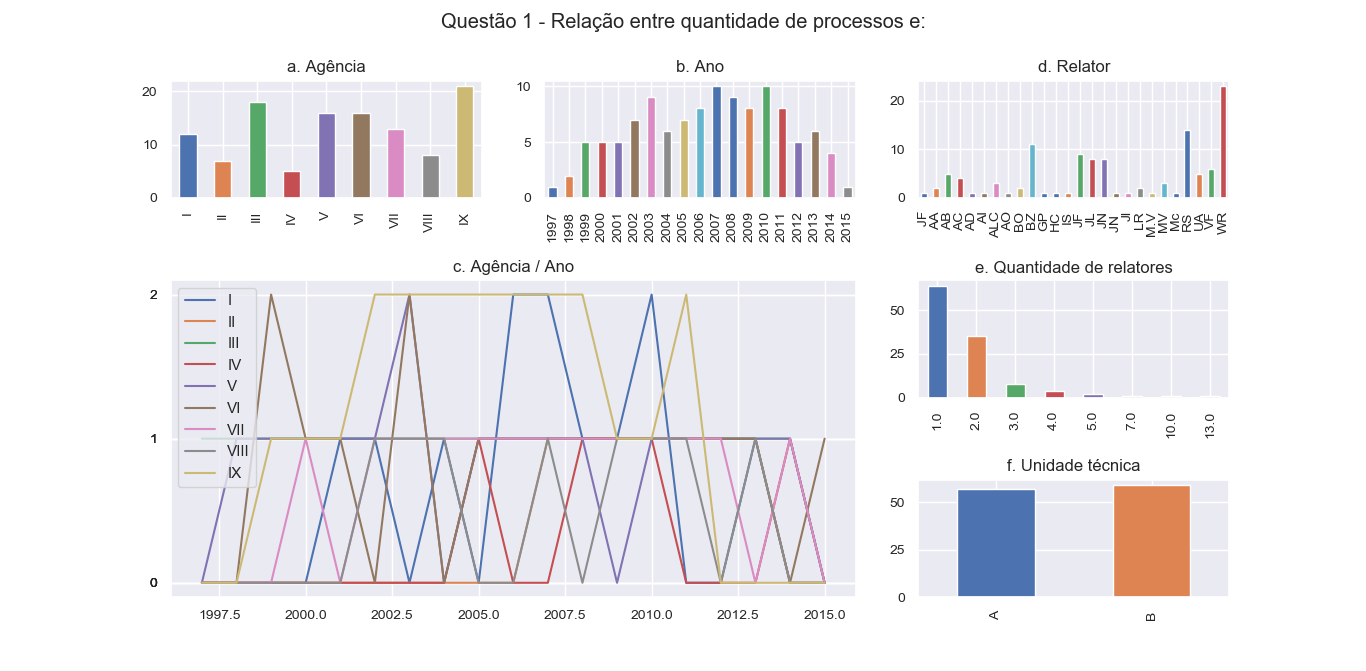
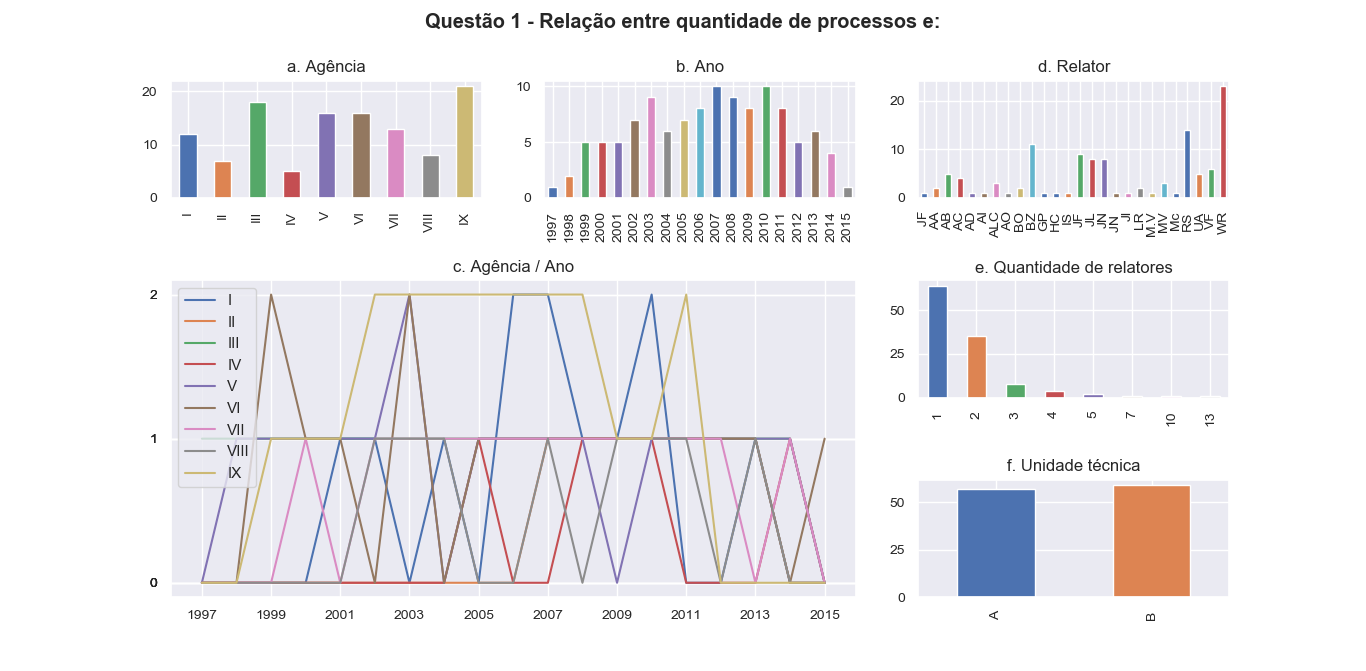
Atualizacoes 3

diff --git a/regulacaoemnumeros/Questao5.py b/regulacaoemnumeros/Questao5.py
@@ -9,8 +9,9 @@ df = df.dropna() # Descartar entradas com dados NaN
 df['AgenciaInt'] = df['Agencia'].apply(lambda x: roman.fromRoman(x)) # Transformar numerais romanos em inteiros
 
 sns.set()
-fig, axes = plt.subplots(nrows=3, ncols=2, figsize=(10,10))
-plt.subplots_adjust(hspace=0.7)
+grid = (2,4)
+fig, axes = plt.subplots(nrows=2, ncols=4, figsize=(10,10))
+plt.subplots_adjust(hspace=0.4)
 fig.suptitle('Questão 5 - Relação entre quantidade de deliberações e:', weight='bold')
 
 
@@ -22,7 +23,8 @@ result_5a = df.groupby('AgenciaInt')['deliberacoes_quantidade'].sum()
 result_5a = pd.Series(result_5a.index.values, index=result_5a) # Inverter indice com valores
 result_5a = result_5a.apply(roman.toRoman) # Aplicar funcao conversora
 result_5a = pd.Series(result_5a.index.values, index=result_5a) # Reinverter para manter numerais como indice
-result_5a.plot.bar(ax=axes[0,0], title='a. Agência', fontsize=10)
+ax_5a = plt.subplot2grid(grid, (0,0), colspan=2, rowspan=1)
+result_5a.plot.bar(ax=ax_5a, title='a. Agência', fontsize=10)
 
 
 # ===============================================================================================================
@@ -34,7 +36,8 @@ result_5b = pd.Series(result_5b.index.values, index=result_5b) # Inverter indice
 result_5b = result_5b.apply(int) # Aplicar funcao conversora
 result_5b = pd.Series(result_5b.index.values, index=result_5b) # Reinverter para manter numerais como indice
 title_5b = 'b. Ano (Total: {})'.format(result_5b.sum())
-result_5b.plot.bar(ax=axes[0,1], title=title_5b, fontsize=10)
+ax_5b = plt.subplot2grid(grid, (0,2), colspan=2, rowspan=1)
+result_5b.plot.bar(ax=ax_5b, title=title_5b, fontsize=10)
 
 
 # ===============================================================================================================
@@ -43,8 +46,8 @@ result_5b.plot.bar(ax=axes[0,1], title=title_5b, fontsize=10)
 
 result_5c = df.groupby('Relator')['deliberacoes_quantidade'].sum()
 result_5c.index.name = ''
-large_left_ax = plt.subplot2grid((3,2), (1,0), colspan=1, rowspan=2)
-result_5c.plot.bar(ax=large_left_ax, title='c. Relator', fontsize=10)
+ax_5c = plt.subplot2grid(grid, (1,0), colspan=2, rowspan=1)
+result_5c.plot.bar(ax=ax_5c, title='c. Relator', fontsize=10)
 
 
 # ===============================================================================================================
@@ -53,7 +56,8 @@ result_5c.plot.bar(ax=large_left_ax, title='c. Relator', fontsize=10)
 
 result_5d = df.groupby('Unidade_Tecnica_Responsavel')['deliberacoes_quantidade'].sum()
 result_5d.index.name = ''
-result_5d.plot.bar(ax=axes[1,1], title='d. Unidade técnica', fontsize=10)
+ax_5d = plt.subplot2grid(grid, (1,2), colspan=1, rowspan=1)
+result_5d.plot.bar(ax=ax_5d, title='d. Unidade técnica', fontsize=10)
 
 
 # ===============================================================================================================
@@ -62,7 +66,8 @@ result_5d.plot.bar(ax=axes[1,1], title='d. Unidade técnica', fontsize=10)
 
 result_5e = df.groupby('Unidade_Tecnica_Por_Agir')['deliberacoes_quantidade'].sum()
 result_5e.index.name = ''
-result_5e.plot.bar(ax=axes[2,1], title='e. Unidade técnica agir', fontsize=10)
+ax_5e = plt.subplot2grid(grid, (1,3), colspan=1, rowspan=1)
+result_5e.plot.bar(ax=ax_5e, title='e. Unidade técnica agir', fontsize=10)
 
 
 plt.show()

diff --git a/regulacaoemnumeros/Questao1.py b/regulacaoemnumeros/Questao1.py
@@ -86,7 +86,6 @@ for each in locs:
     yint.append(int(each))
 plt.yticks(yint)
 
-xint = [x for x in range(1997, 2016, 2)]
 plt.xticks([value for idx, value in enumerate(anos) if idx%2 == 0])
 
 plt.show()
